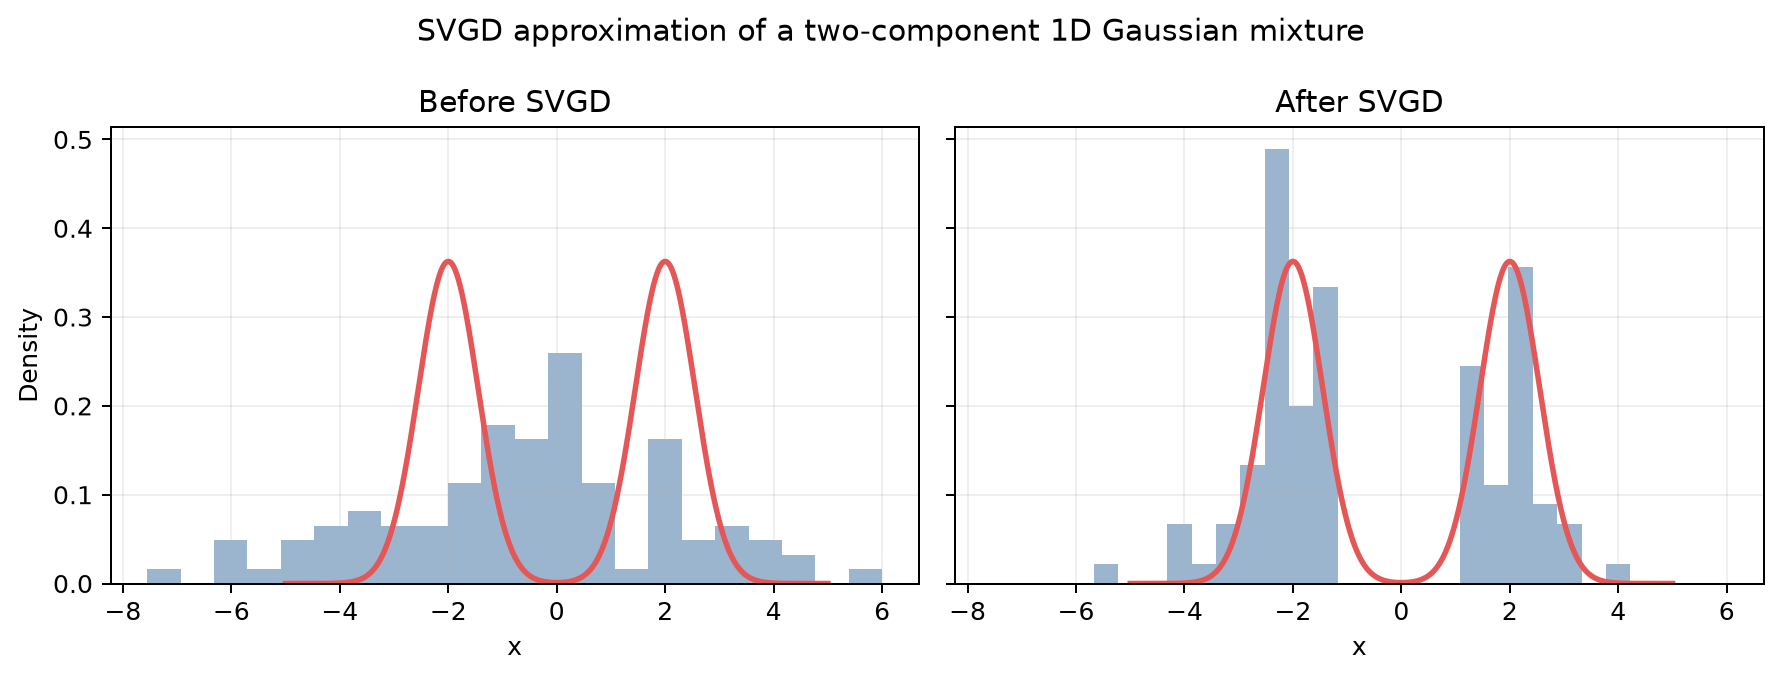
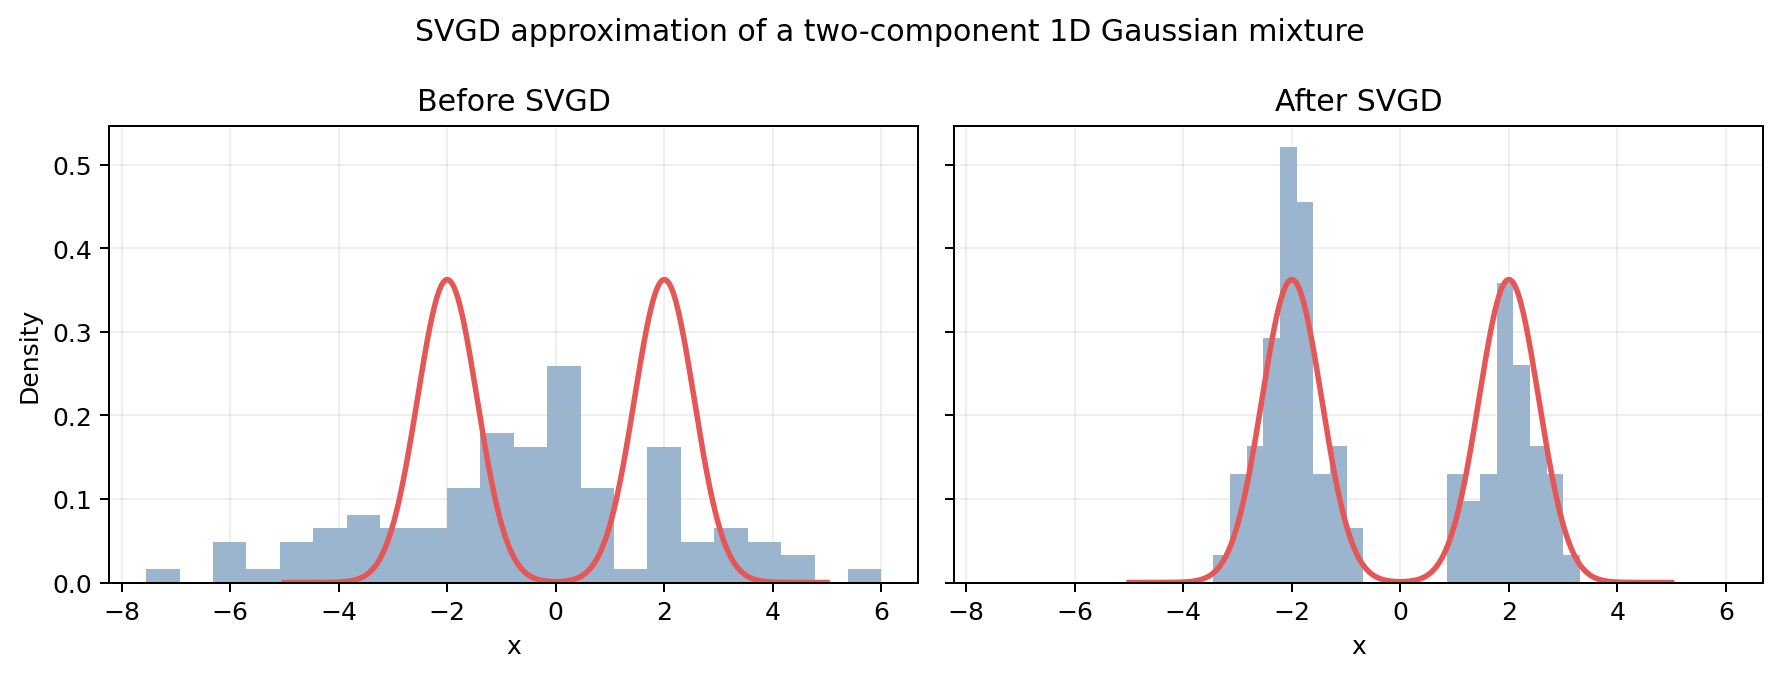
end of 1D experiments

diff --git a/experiments/compare_svgd_langevin_1d.py b/experiments/compare_svgd_langevin_1d.py
@@ -1,0 +1,138 @@
+"""We check which method works better in 1D."""
+
+from pathlib import Path
+
+import numpy as np
+import matplotlib.pyplot as plt
+
+from svgd_gmm_1d import (
+    SEED,
+    N_PARTICLES,
+    N_STEPS,
+    STEP_SIZE as SVGD_STEP_SIZE,
+    target_density,
+    svgd_direction,
+)
+
+from langevin_gmm_1d import (
+    langevin,
+    STEPSIZE as LANGEVIN_STEP_SIZE,
+)
+
+def main() -> None:
+    # we create one initial particle set for both methods
+    initial_rng = np.random.default_rng(SEED)
+    initial_particles = initial_rng.normal(
+        loc=0.0,
+        scale=3.0,
+        size=N_PARTICLES,
+    )
+
+    # we run the Langevin dynamics
+    noise_rng = np.random.default_rng(SEED + 1)
+
+    with np.errstate(divide="ignore", invalid="ignore", over="ignore"):
+        final_particles_langevin = langevin(
+            initial_particles.copy(),
+            noise_rng,
+            LANGEVIN_STEP_SIZE,
+        )
+
+    # we run the SVGD dynamics
+    svgd_particles = initial_particles.copy()
+    accumulated_squared_gradient = np.zeros_like(svgd_particles)
+
+    for _ in range(N_STEPS):
+        direction = svgd_direction(svgd_particles)
+
+        accumulated_squared_gradient += direction**2
+
+        svgd_particles += SVGD_STEP_SIZE  * direction / (
+            1e-6 + np.sqrt(accumulated_squared_gradient)
+        )
+
+    # we plot the results
+    fig, axes = plt.subplots(
+        1,
+        2,
+        figsize=(15, 5),
+        sharex=True,
+        sharey=True,
+    )
+
+    axes[1].tick_params(labelleft=True)
+
+    x = np.linspace(-5, 5, 1000)
+
+    axes[0].plot(
+        x,
+        target_density(x),
+        label="Target density",
+        color="red",
+    )
+    axes[0].hist(
+        final_particles_langevin,
+        bins=30,
+        density=True,
+        alpha=0.5,
+        label="Langevin particles",
+    )
+    axes[0].set_title("Langevin Dynamics")
+    axes[0].legend()
+
+    axes[1].plot(
+        x,
+        target_density(x),
+        label="Target density",
+        color="red",
+    )
+    axes[1].hist(
+        svgd_particles,
+        bins=30,
+        density=True,
+        alpha=0.5,
+        label="SVGD particles",
+    )
+    axes[1].set_title("SVGD Dynamics")
+    axes[1].legend()
+
+    # we compute simple diagnostics
+    langevin_log_density = np.log(
+        target_density(final_particles_langevin) + 1e-12
+    ).mean()
+
+    svgd_log_density = np.log(
+        target_density(svgd_particles) + 1e-12
+    ).mean()
+
+    langevin_left_fraction = np.mean(
+        final_particles_langevin < 0.0
+    )
+
+    svgd_left_fraction = np.mean(
+        svgd_particles < 0.0
+    )
+
+    print(
+        f"Langevin mean log density: {langevin_log_density:.3f}"
+    )
+    print(
+        f"SVGD mean log density:     {svgd_log_density:.3f}"
+    )
+    print(
+        f"Langevin left fraction:    {langevin_left_fraction:.2f}"
+    )
+    print(
+        f"SVGD left fraction:        {svgd_left_fraction:.2f}"
+    )
+    output_dir = Path(__file__).resolve().parent / "results"
+    output_dir.mkdir(parents=True, exist_ok=True)
+
+    figure_path = output_dir / "compare_svgd_langevin_1d.png"
+    fig.savefig(figure_path, dpi=180, bbox_inches="tight")
+    
+    plt.show()
+
+
+if __name__ == "__main__":
+    main()

diff --git a/experiments/svgd_stepsize_1d.py b/experiments/svgd_stepsize_1d.py
@@ -1,0 +1,114 @@
+"""Compare different SVGD step sizes in 1D."""
+
+from pathlib import Path
+
+import matplotlib.pyplot as plt
+import numpy as np
+
+from svgd_gmm_1d import (
+    SEED,
+    N_PARTICLES,
+    N_STEPS,
+    target_density,
+    svgd_direction,
+)
+
+
+STEP_SIZES = [0.03, 0.05, 0.07, 0.1, 0.15, 0.3]
+
+
+def run_svgd(initial_particles: np.ndarray, step_size: float) -> np.ndarray:
+    particles = initial_particles.copy()
+
+    accumulated_squared_gradient = np.zeros_like(particles)
+
+    for _ in range(N_STEPS):
+        direction = svgd_direction(particles)
+
+        accumulated_squared_gradient += direction**2
+
+        particles += step_size * direction / (
+            1e-6 + np.sqrt(accumulated_squared_gradient)
+        )
+
+    return particles
+
+
+def main() -> None:
+    rng = np.random.default_rng(SEED)
+
+    initial_particles = rng.normal(
+        loc=0.0,
+        scale=3.0,
+        size=N_PARTICLES,
+    )
+
+    x = np.linspace(-5, 5, 1000)
+
+    fig, axes = plt.subplots(
+        1,
+        len(STEP_SIZES),
+        figsize=(18, 4),
+        sharex=True,
+        sharey=True,
+    )
+
+    for axis, step_size in zip(axes, STEP_SIZES):
+        particles = run_svgd(
+            initial_particles,
+            step_size,
+        )
+
+        axis.plot(
+            x,
+            target_density(x),
+            color="red",
+            label="Target density",
+        )
+
+        axis.hist(
+            particles,
+            bins=30,
+            density=True,
+            alpha=0.5,
+            label="SVGD particles",
+        )
+
+        axis.set_title(f"Step size = {step_size}")
+        axis.tick_params(labelleft=True)
+
+        mean_log_density = np.log(
+            target_density(particles) + 1e-12
+        ).mean()
+
+        left_fraction = np.mean(particles < 0.0)
+
+        print(
+            f"Step size {step_size}: "
+            f"log density = {mean_log_density:.3f}, "
+            f"left fraction = {left_fraction:.2f}"
+        )
+
+    axes[0].legend()
+
+    fig.suptitle("SVGD step size comparison in 1D")
+    fig.tight_layout()
+
+    output_dir = Path(__file__).resolve().parent / "results"
+    output_dir.mkdir(parents=True, exist_ok=True)
+
+    figure_path = output_dir / "svgd_stepsize_1d.png"
+
+    fig.savefig(
+        figure_path,
+        dpi=180,
+        bbox_inches="tight",
+    )
+
+    print(f"Figure saved to: {figure_path}")
+
+    plt.show()
+
+
+if __name__ == "__main__":
+    main()

diff --git a/experiments/langevin_stepsize_1d.py b/experiments/langevin_stepsize_1d.py
@@ -5,7 +5,7 @@ from pathlib import Path
 import numpy as np
 import matplotlib.pyplot as plt
 
-from langevin_gmm_1d import NPARTICLES, SEED, density, langevin
+from experiments.langevin_gmm_1d import NPARTICLES, SEED, density, langevin
 
 #we put different values of the step size in a list
 step_sizes = [0.003, 0.01, 0.03, 0.1,0.3, 1.0]

diff --git a/experiments/svgd_gmm_1d.py b/experiments/svgd_gmm_1d.py
@@ -12,7 +12,7 @@ import numpy as np
 SEED = 7
 N_PARTICLES = 100
 N_STEPS = 1200
-STEP_SIZE = 0.03
+STEP_SIZE = 0.1
 MEANS = np.array([-2.0, 2.0])
 STD = 0.55
 
